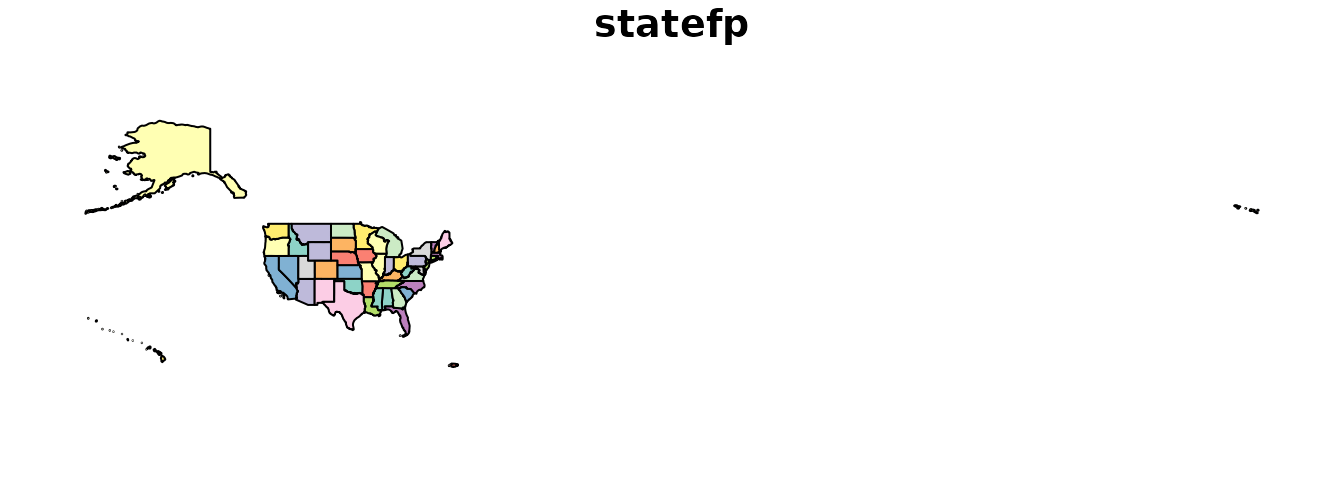
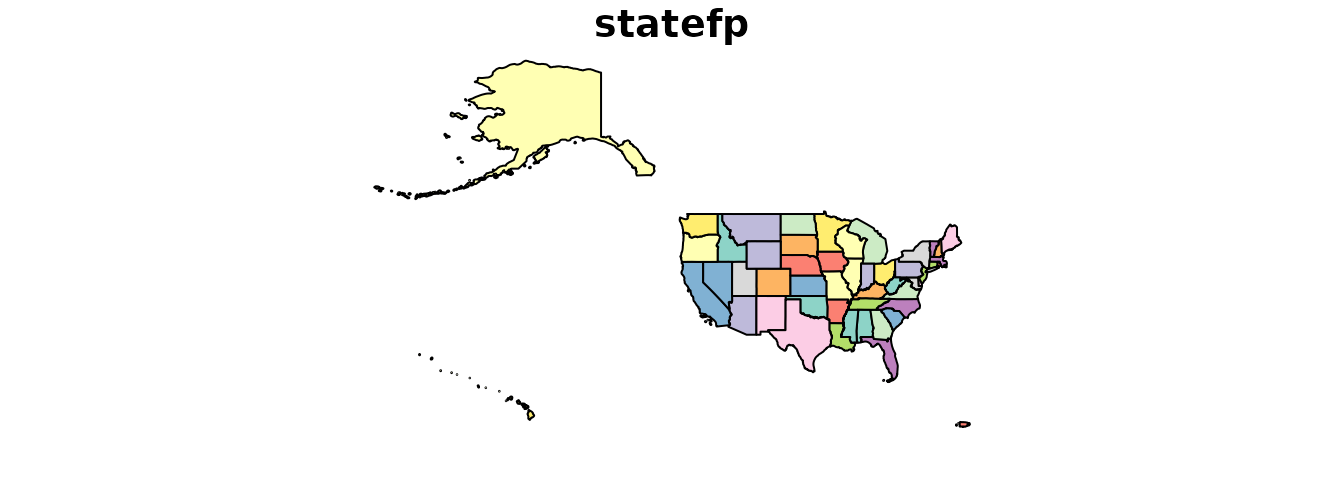
Deploying to gh-pages from @ josesamos/geodimension@3eecc044e8038877ab585e724b8c05013203d4d0 🚀

diff --git a/articles/geodimension.html b/articles/geodimension.html
@@ -497,7 +497,7 @@ the attribute configuration we want and the selected geometry.</p>
 <span>                  geometry <span class="op">=</span> <span class="st">"polygon"</span>,</span>
 <span>                  only_key <span class="op">=</span> <span class="cn">TRUE</span><span class="op">)</span></span>
 <span></span>
-<span><span class="fu"><a href="https://rdrr.io/r/graphics/plot.default.html" class="external-link">plot</a></span><span class="op">(</span><span class="va">ll</span><span class="op">)</span></span></code></pre></div>
+<span><span class="fu"><a href="https://rdrr.io/r/graphics/plot.default.html" class="external-link">plot</a></span><span class="op">(</span><span class="fu">sf</span><span class="fu">::</span><span class="fu"><a href="https://r-spatial.github.io/sf/reference/st_shift_longitude.html" class="external-link">st_shift_longitude</a></span><span class="op">(</span><span class="va">ll</span><span class="op">)</span><span class="op">)</span></span></code></pre></div>
 <p><img src="geodimension_files/figure-html/unnamed-chunk-18-1.png" width="672"></p>
 <p>In addition to these functions, the package offers the possibility to
 change the CRS of all the layers of a geodimension using the

diff --git a/news/index.html b/news/index.html
@@ -49,7 +49,10 @@
 
     <div class="section level2">
 <h2 class="pkg-version" data-toc-text="development version" id="geodimension-development-version">geodimension (development version)<a class="anchor" aria-label="anchor" href="#geodimension-development-version"></a></h2>
-</div>
+<ul><li>Fix test problem.</li>
+<li>Use core pipe operator in tests.</li>
+<li>Use the <code>st_shift_longitude</code> function to plot the map of the US with Alaska.</li>
+</ul></div>
     <div class="section level2">
 <h2 class="pkg-version" data-toc-text="1.0.1" id="geodimension-101">geodimension 1.0.1<a class="anchor" aria-label="anchor" href="#geodimension-101"></a></h2><p class="text-muted">CRAN release: 2023-10-05</p>
 <ul><li>Update documentation and website.</li>
